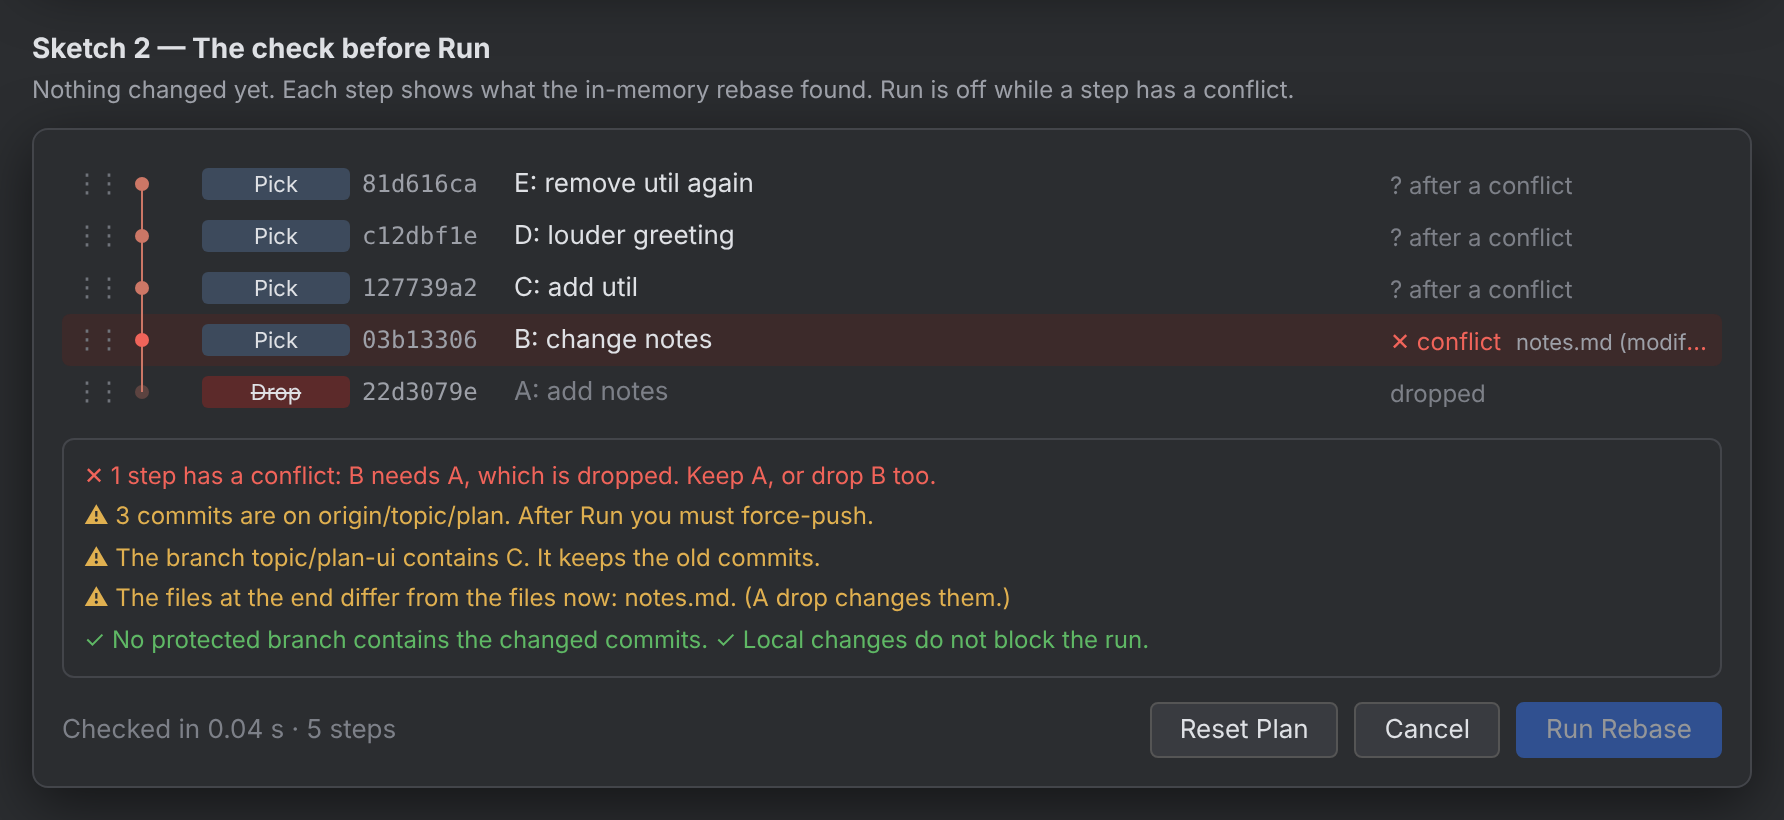
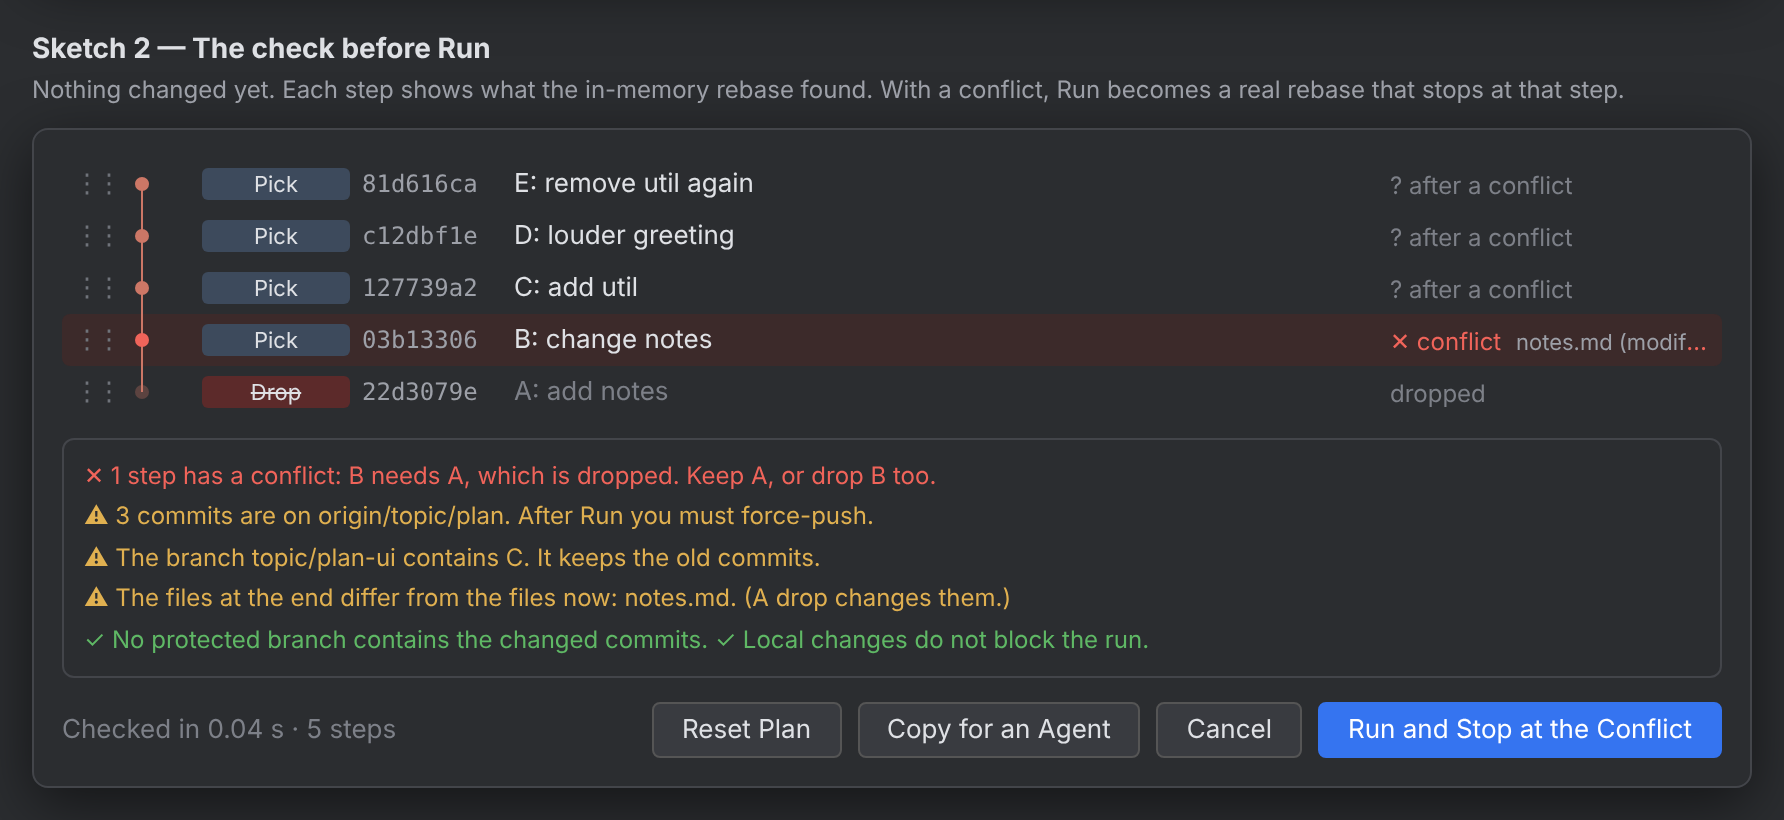
Add the decisions and Copy for an Agent to the rebase research
The owner decided the open points: the dialog first, Run and Stop at
the Conflict in the first version, empty commits stay, other branches
do not move, a drop squashes and Alt makes a fixup, and the menu gets
Reword and Edit. The main log shows no preview of the plan.

The new section 6.1 describes Copy for an Agent. It copies the todo
list, the result of the check and the rules as one Markdown task, so
a coding agent can run the rebase and resolve the conflicts.

Claude-Session: https://claude.ai/code/session_01Tuh4Sgm8FSGRPRLDVZbMG9

Changed region(s): [[0.37, 0.8537, 0.9865, 0.9451], [0.4933, 0.0915, 0.9249, 0.122]]

diff --git a/docs/rebase-drag.md b/docs/rebase-drag.md
@@ -15,6 +15,8 @@ touches, the tests that it needs, and the open questions.
   with that move done.
 - No git client that we examined shows a conflict check of the whole plan before the run. Gittor can
   be the first.
+- The owner decided the open points (section 10). New: "Copy for an Agent" copies the plan, the check
+  and the rules, so a coding agent can run the rebase and resolve the conflicts (section 6.1).
 
 ## 2. What exists now
 
@@ -223,7 +225,12 @@ Recommendation: **the dialog first, the log graph as a shortcut.**
   run (an error), a different final tree (a warning, with the files).
 - A click on a conflict row opens the three versions of the file (base, the new history, the commit)
   in the Compare window, read only.
-- Run Rebase is off while a step has a conflict or a check has an error.
+- When the plan is clean, Run Rebase runs the in-memory rewrite.
+- When a step has a conflict, the button is "Run and Stop at the Conflict" (decision of the owner).
+  It runs a real `git rebase -i` with the plan as its todo list, as the Edit action does now. The
+  rebase stops at the predicted step; the op banner and the Conflicts dialog then guide the user. An
+  error of a check (protected branch, local changes that block the run) still turns the button off.
+- "Copy for an Agent" copies the plan as a task for a coding agent (section 6.1).
 
 Can the user resolve a predicted conflict before the run?
 
@@ -233,9 +240,77 @@ Can the user resolve a predicted conflict before the run?
   that tree for the step. This is the idea of jj and GitButler, but before the run.
 - The resolution belongs to the inputs of the step (parent, the tree before, the commit). A change of
   the plan before that step makes it invalid. The UI must say so.
-- Recommendation: the first version only shows the conflict. As a way out, "Run and stop at the
-  conflict" runs a real `git rebase -i` (the path of the Edit action), which stops at the predicted step
-  and opens the Conflicts dialog. Resolution ahead of time comes later.
+- The first version only shows the conflict, and offers "Run and Stop at the Conflict" and "Copy for
+  an Agent". Resolution ahead of time can come later.
+
+### 6.1 Copy for an Agent
+
+The owner wants a way to give the plan to an agent (for example Claude Code in a terminal). The agent
+runs the rebase and resolves the conflicts at the same time.
+
+- A button "Copy for an Agent" in the plan editor copies one Markdown text to the clipboard. It works
+  for a clean plan and for a plan with conflicts. A plan with conflicts is the main case.
+- The text has these parts:
+  1. The repository path, the branch, the full oid of HEAD and of the base. The agent stops when HEAD
+     is not that oid.
+  2. The todo list of `git rebase -i`, oldest first, with full oids and subjects. A reword or a squash
+     group gets its message in a block, and an `exec git commit --amend -F <file>` line, as
+     `rebase_interactive` writes now. An Edit step says what the user wants changed, if the user wrote
+     a note.
+  3. The result of the check for each step: the predicted conflicts with their files and kinds, the
+     empty steps, and the steps "after a conflict".
+  4. The rules: keep empty commits (`--empty=keep`); do not skip or drop a commit; resolve each conflict
+     so that the commit keeps its intent on the new history; `git add` and `git rebase --continue`;
+     do not push; do not change other branches.
+  5. The end: a list of the conflicts and how the agent resolved them, then `git log --oneline` of the
+     range.
+  6. Undo: `git reset --keep <old HEAD>`, or `git rebase --abort` while the rebase runs.
+- Gittor shows the work of the agent by itself: the watcher sees the rebase, the op banner shows it,
+  and the log loads again when it ends.
+- Gittor keeps the old HEAD of a copied plan. When the branch moves away from it after a rebase, a
+  toast offers Undo (a `Reset { mode: Keep }` step with the new HEAD as `expected_head`).
+- The text is made by a pure function `rebase-agent-text.ts`, as `note-format.ts` makes the text of
+  review notes. It has unit tests.
+
+Example for the demo plan "drop A, then B C D E":
+
+````markdown
+# Rebase task from Gittor
+
+Repository: /work/demo
+Branch: topic/plan
+HEAD must be: 81d616ca… (full oid). Stop if it is not.
+Base: e84df80a… (full oid)
+
+## Todo (oldest first)
+
+```
+drop 22d3079e… A: add notes
+pick 03b13306… B: change notes
+pick 127739a2… C: add util
+pick c12dbf1e… D: louder greeting
+pick 81d616ca… E: remove util again
+```
+
+## Check of Gittor (nothing changed yet)
+
+- pick 03b13306 "B: change notes": CONFLICT in notes.md (modify/delete). B changes notes.md, which A
+  added. A is dropped.
+- C, D, E: no conflict found, but they come after a conflict.
+
+## Rules
+
+- Run: write the todo to a file, then
+  `GIT_SEQUENCE_EDITOR="cp <todo file>" git rebase -i --empty=keep <base>`.
+- At each conflict, resolve it so that the commit keeps its intent on the new history. Then
+  `git add` the files and `git rebase --continue`. Do not skip or drop a commit.
+- Do not push. Do not change other branches.
+- At the end, list each conflict and how you resolved it, then show `git log --oneline <base>..HEAD`.
+
+Undo: `git rebase --abort` during the rebase, or `git reset --keep 81d616ca…` after it.
+````
+
+![Copy for an Agent](rebase-drag/sketch-s4.png)
 
 ## 7. Risks and limits
 
@@ -253,8 +328,11 @@ Can the user resolve a predicted conflict before the run?
   allow Run only for the current result.
 - A change of the repository between the check and the run (a commit in a terminal, the watcher):
   the run must refuse when HEAD moved, and the dialog checks again on `onRepoChange`.
-- Empty commits: `rewrite` keeps them now; `git rebase -i` drops or stops. The check makes them
-  visible, so the user can drop them.
+- Empty commits: Gittor keeps them (decision of the owner). `rewrite` keeps them now. The real
+  `git rebase -i` path (Edit, Run and Stop at the Conflict, the agent text) must use `--empty=keep`, so
+  all paths agree. The check shows them, so the user can drop them by hand.
+- An agent works outside Gittor: it can push, change other branches or resolve badly. The text forbids
+  this, and Undo of the old HEAD stays possible. The reflog keeps the old commits too.
 - Drag in WebKitGTK and WKWebView: test in the real app (Xvfb and xdotool on Linux; the owner on a Mac).
 
 ## 8. Layers that the change touches
@@ -268,7 +346,8 @@ Can the user resolve a predicted conflict before the run?
    - Optional `Action::Fixup` without a message in the UI (the backend has it).
    - `rewrite` takes an optional `expected_head` and refuses when HEAD moved.
 2. `crates/service`: a query `rewrite_check` in `queries.rs` and one line in `dispatch.rs`. The `Rewrite`
-   variant of `Op` gets `expected_head`.
+   variant of `Op` gets `expected_head`. The real
+   rebase path gets `--empty=keep` and a mode that stops at the first conflict.
 3. Types: `RewriteCheck`, `StepCheck`, `StepStatus` with `#[derive(ts_rs::TS)]`; run
    `export_bindings`. Add `rewriteCheck` to `api.ts` and the new field to the `Op` union.
 4. UI
@@ -277,6 +356,10 @@ Can the user resolve a predicted conflict before the run?
    - `rebase-drag.ts`: the custom drag of rows, after `tab-drag.ts`.
    - `rebase-flow.ts`: the editor, the debounced check, the check box, Run. It replaces
      `interactiveRebaseDialog`; `interactiveRebase` in `operations.ts` calls it.
+   - `rebase-agent-text.ts`: the text of Copy for an Agent. Unit tests in
+     `ui/test/rebase-agent-text.test.ts`.
+   - The action menu of a row gets Reword and Edit (decision of the owner). Reword edits the message in
+     place; Edit runs the real rebase that stops at the commit.
    - `log-view.ts`: an `onNodeDrag` callback from the graph canvas for the shortcut.
    - `protected.ts`: check the first changed commit.
    - `keyboard.ts`, `style.css`: the new actions and classes, at their places in order.
@@ -297,7 +380,11 @@ Rust (`crates/git/tests/rewrite_check.rs`):
 - With `commit.gpgsign`, the check does not sign (in `signing.rs`, which has gpg).
 - `rewrite` with an old `expected_head` refuses.
 
-UI unit tests: `rebase-plan.test.ts` for the model.
+UI unit tests: `rebase-plan.test.ts` for the model, `rebase-agent-text.test.ts` for the text (full
+oids, oldest first, messages of squash groups, the conflicts, the Undo line).
+
+More Rust tests: Run and Stop at the Conflict stops at the predicted step with the predicted files;
+empty commits stay on both paths.
 
 e2e scenarios (one file each):
 
@@ -306,16 +393,32 @@ e2e scenarios (one file each):
 - `rebase-graph-drag.mjs`: drag a node in the log; the editor opens with the move; a drop on a merge
   or on a protected commit does nothing.
 - Keyboard: Alt+Up/Down and the action letters.
+- `rebase-agent.mjs`: Copy for an Agent puts the text on the clipboard (read it with
+  `navigator.clipboard` in Chromium). The scenario then runs the todo of the text with a script in
+  place of the agent, as the scenarios of Open in Editor do, and checks that the log shows the result
+  and that Undo brings the old HEAD back.
+- Run and Stop at the Conflict: the op banner shows the rebase at the predicted commit.
 - Add the check to the large repository scenario, or measure it there, before a release.
 
-## 10. Open questions for the owner
+## 10. Decisions of the owner
 
-1. Is the order right: the plan editor in the dialog first, then the drag in the log as a shortcut?
-2. When the check finds a conflict, is Run off, or does "Run and stop at the conflict" (a real rebase)
-   come in the first version? Is resolution ahead of time wanted later?
-3. Empty commits: keep them (as now), drop them by themselves, or ask?
-4. Other local branches that contain rewritten commits: move them too, as `git rebase --update-refs`?
-5. A drop on a commit: Squash by default and Fixup with Alt (as Tower), or the other way?
-6. Should the dialog have Reword and Edit in its action menu? The backend has both already.
-7. Should the main log show a preview of the new order (ghost nodes) while the dialog is open, or only
-   the small graph in the dialog?
+1. The plan editor in the dialog comes first. The drag in the log is a shortcut to it.
+2. The first version has "Run and Stop at the Conflict" (a real rebase that stops at the conflict).
+3. Empty commits stay.
+4. Other local branches that contain rewritten commits do not move.
+5. A drop on a commit is a Squash; with Alt it is a Fixup.
+6. The action menu gets Reword and Edit.
+7. Left to the designer. Decision: the main log shows no preview. The small graph in the dialog shows
+   the new order, with ghost nodes. The main log shows the result after the run. A preview in the main
+   log would mix two states in one view, and the log is virtual and filtered.
+8. New: "Copy for an Agent" copies the plan, the check and the rules for a coding agent, which runs the
+   rebase and resolves the conflicts (section 6.1).
+
+## 11. Open questions
+
+1. The agent text: Markdown for any agent, or also a file in `app_dir` that the text names, so a long
+   plan does not fill the clipboard?
+2. Should Gittor offer to start the agent itself (a command in `settings.json`, as Open in Terminal),
+   or only copy the text?
+3. Undo after the work of an agent: a toast when the branch moves, or a menu item "Undo the last
+   rebase" from the kept old HEAD?
